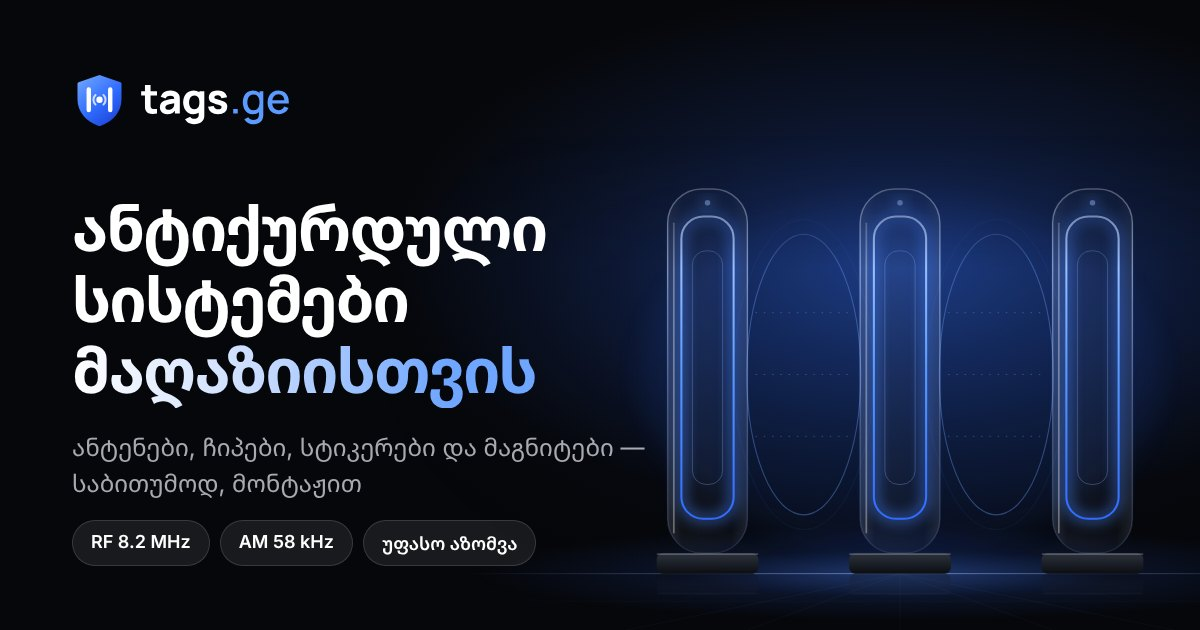
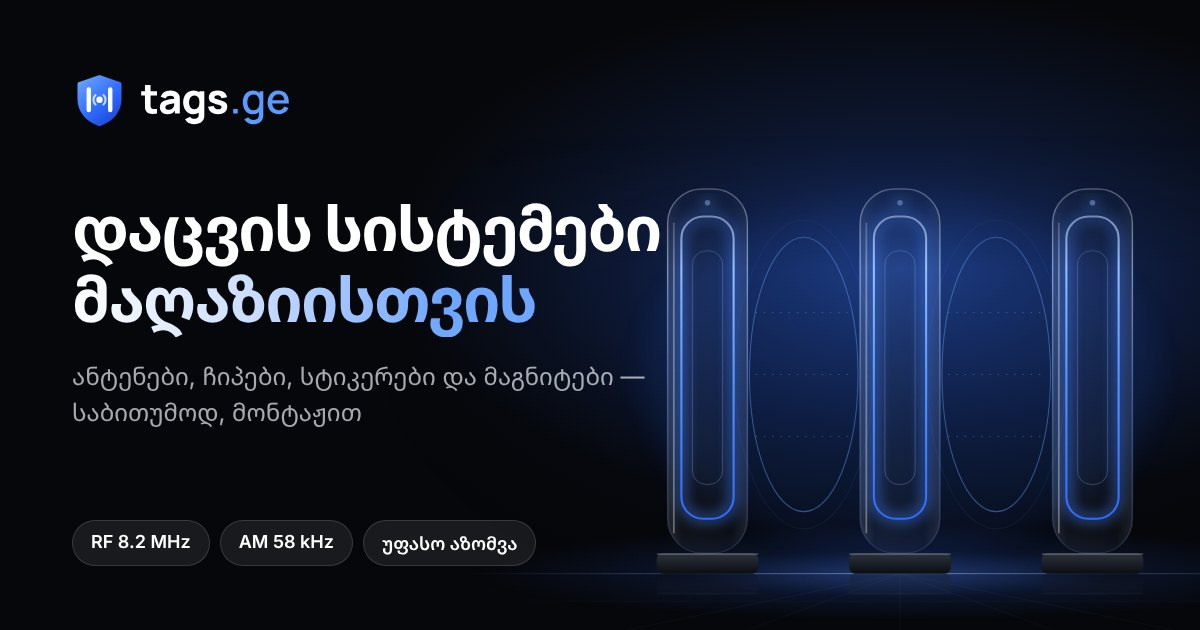
tags.ge: drop the word "ანტიქურდული" from everything visitors see
- Headline: "დაცვის სისტემები მაღაზიისთვის"; page title "მაღაზიის დაცვის
  სისტემები და ტანსაცმლის ჩიპები — tags.ge"
- Antenna category renamed "დამცავი ანტენები" (filter, heading, footer,
  form, JSON-LD)
- Meta and social descriptions, image alt text, SVG titles and the web
  manifest reworded; new social preview image
- The search terms containing the word stay only in the hidden keywords
  meta and JSON-LD knowsAbout list

Checked: no horizontal scroll 320-1920 px, html-validate clean, axe-core
no violations, menu/filter/selection/form flows unchanged.

Claude-Session: https://claude.ai/code/session_01BTpAvXkUq9DKvF3ta8y6eN

diff --git a/tagsge/index.html b/tagsge/index.html
@@ -3,8 +3,8 @@
 <head>
 <meta charset="utf-8">
 <meta name="viewport" content="width=device-width, initial-scale=1, viewport-fit=cover">
-<title>ანტიქურდული სისტემები და ტანსაცმლის ჩიპები — tags.ge</title>
-<meta name="description" content="ანტიქურდული სისტემები მაღაზიისთვის: RF და AM ანტენები, ტანსაცმლის ჩიპები, დამცავი სტიკერები და დეტაჩერი. საბითუმოდ, მონტაჟით მთელ საქართველოში.">
+<title>მაღაზიის დაცვის სისტემები და ტანსაცმლის ჩიპები — tags.ge</title>
+<meta name="description" content="მაღაზიის დაცვის სისტემები: RF და AM ანტენები, ტანსაცმლის ჩიპები, დამცავი სტიკერები და დეტაჩერი. საბითუმოდ, მონტაჟით მთელ საქართველოში.">
 <meta name="keywords" content="ანტიქურდული სისტემები, ტანსაცმლის ჩიპები, დამცავი სტიკერები, მაგნიტური ჩიპები, ჩიპის მოსახსნელი მაგნიტი, ანტიქურდული ანტენები, მაღაზიის სიგნალიზაცია, პლასტმასის ჩიპები, სენსორული სტიკერები, მოპარვის საწინააღმდეგო სისტემები, პროდუქციის დაცვა ქურდობისგან, დეტაჩერი, სტიკერის დეაქტივატორი, RF ანტენა, AM ანტენა, მრავალჯერადი ჩიპები, EAS სისტემა, tags.ge">
 <meta name="robots" content="index, follow, max-image-preview:large, max-snippet:-1">
 <link rel="canonical" href="https://tags.ge/">
@@ -19,14 +19,14 @@
 <meta property="og:site_name" content="tags.ge">
 <meta property="og:locale" content="ka_GE">
 <meta property="og:url" content="https://tags.ge/">
-<meta property="og:title" content="ანტიქურდული სისტემები მაღაზიისთვის — tags.ge">
+<meta property="og:title" content="დაცვის სისტემები მაღაზიისთვის — tags.ge">
 <meta property="og:description" content="ანტენები, ჩიპები, სტიკერები და მაგნიტები — საბითუმოდ, მონტაჟით მთელ საქართველოში.">
 <meta property="og:image" content="https://tags.ge/og-image.jpg">
 <meta property="og:image:width" content="1200">
 <meta property="og:image:height" content="630">
-<meta property="og:image:alt" content="tags.ge — ანტიქურდული სისტემები მაღაზიისთვის">
+<meta property="og:image:alt" content="tags.ge — დაცვის სისტემები მაღაზიისთვის">
 <meta name="twitter:card" content="summary_large_image">
-<meta name="twitter:title" content="ანტიქურდული სისტემები მაღაზიისთვის — tags.ge">
+<meta name="twitter:title" content="დაცვის სისტემები მაღაზიისთვის — tags.ge">
 <meta name="twitter:description" content="ანტენები, ჩიპები, სტიკერები და მაგნიტები — საბითუმოდ, მონტაჟით მთელ საქართველოში.">
 <meta name="twitter:image" content="https://tags.ge/og-image.jpg">
 
@@ -45,7 +45,7 @@
 <script>document.documentElement.classList.add('js')</script>
 
 <script type="application/ld+json">
-{"@context":"https://schema.org","@graph":[{"@type":["LocalBusiness","WholesaleStore"],"@id":"https://tags.ge/#business","name":"tags.ge","description":"ანტიქურდული სისტემები მაღაზიისთვის: ანტენები, ჩიპები, სტიკერები, მაგნიტები და დეაქტივატორები. საბითუმოდ, მონტაჟით მთელ საქართველოში.","url":"https://tags.ge/","logo":"https://tags.ge/icon-512.png","image":["https://tags.ge/og-image.jpg"],"telephone":"+995 5XX XX XX XX","email":"info@tags.ge","priceRange":"₾₾","currenciesAccepted":"GEL","address":{"@type":"PostalAddress","addressLocality":"თბილისი","addressRegion":"თბილისი","addressCountry":"GE"},"geo":{"@type":"GeoCoordinates","latitude":41.7151,"longitude":44.8271},"areaServed":{"@type":"Country","name":"საქართველო"},"openingHoursSpecification":[{"@type":"OpeningHoursSpecification","dayOfWeek":["Monday","Tuesday","Wednesday","Thursday","Friday"],"opens":"10:00","closes":"19:00"},{"@type":"OpeningHoursSpecification","dayOfWeek":"Saturday","opens":"11:00","closes":"16:00"}],"knowsAbout":["ანტიქურდული სისტემები","ტანსაცმლის ჩიპები","დამცავი სტიკერები","მაგნიტური ჩიპები","ჩიპის მოსახსნელი მაგნიტი","ანტიქურდული ანტენები","მაღაზიის სიგნალიზაცია","პლასტმასის ჩიპები","სენსორული სტიკერები","მოპარვის საწინააღმდეგო სისტემები","პროდუქციის დაცვა ქურდობისგან","დეტაჩერი","სტიკერის დეაქტივატორი","RF ანტენა","AM ანტენა","მრავალჯერადი ჩიპები"],"hasOfferCatalog":{"@type":"OfferCatalog","name":"ანტიქურდული სისტემები — კატალოგი","itemListElement":[{"@type":"OfferCatalog","name":"პლასტმასის ჩიპები","url":"https://tags.ge/#hard-tags","itemListElement":[{"@type":"Offer","availability":"https://schema.org/InStock","itemOffered":{"@id":"https://tags.ge/#p-round-tag"}},{"@type":"Offer","availability":"https://schema.org/InStock","itemOffered":{"@id":"https://tags.ge/#p-square-tag"}},{"@type":"Offer","availability":"https://schema.org/InStock","itemOffered":{"@id":"https://tags.ge/#p-long-tag"}},{"@type":"Offer","availability":"https://schema.org/InStock","itemOffered":{"@id":"https://tags.ge/#p-ink-tag"}},{"@type":"Offer","availability":"https://schema.org/InStock","itemOffered":{"@id":"https://tags.ge/#p-bottle-tag"}},{"@type":"Offer","availability":"https://schema.org/InStock","itemOffered":{"@id":"https://tags.ge/#p-cable-tag"}},{"@type":"Offer","availability":"https://schema.org/InStock","itemOffered":{"@id":"https://tags.ge/#p-optical-tag"}},{"@type":"Offer","availability":"https://schema.org/InStock","itemOffered":{"@id":"https://tags.ge/#p-pins"}}]},{"@type":"OfferCatalog","name":"დამცავი სტიკერები","url":"https://tags.ge/#soft-labels","itemListElement":[{"@type":"Offer","availability":"https://schema.org/InStock","itemOffered":{"@id":"https://tags.ge/#p-rf-label"}},{"@type":"Offer","availability":"https://schema.org/InStock","itemOffered":{"@id":"https://tags.ge/#p-am-label"}},{"@type":"Offer","availability":"https://schema.org/InStock","itemOffered":{"@id":"https://tags.ge/#p-barcode-label"}},{"@type":"Offer","availability":"https://schema.org/InStock","itemOffered":{"@id":"https://tags.ge/#p-deactivator"}}]},{"@type":"OfferCatalog","name":"ანტიქურდული ანტენები","url":"https://tags.ge/#antennas","itemListElement":[{"@type":"Offer","availability":"https://schema.org/InStock","itemOffered":{"@id":"https://tags.ge/#p-rf-antenna"}},{"@type":"Offer","availability":"https://schema.org/InStock","itemOffered":{"@id":"https://tags.ge/#p-am-antenna"}},{"@type":"Offer","availability":"https://schema.org/InStock","itemOffered":{"@id":"https://tags.ge/#p-hidden-antenna"}},{"@type":"Offer","availability":"https://schema.org/InStock","itemOffered":{"@id":"https://tags.ge/#p-counter"}}]},{"@type":"OfferCatalog","name":"ჩიპის მოსახსნელი მაგნიტები","url":"https://tags.ge/#detachers","itemListElement":[{"@type":"Offer","availability":"https://schema.org/InStock","itemOffered":{"@id":"https://tags.ge/#p-magnet"}},{"@type":"Offer","availability":"https://schema.org/InStock","itemOffered":{"@id":"https://tags.ge/#p-magnet-flush"}},{"@type":"Offer","availability":"https://schema.org/InStock","itemOffered":{"@id":"https://tags.ge/#p-magnet-mini"}},{"@type":"Offer","availability":"https://schema.org/InStock","itemOffered":{"@id":"https://tags.ge/#p-key"}}]}]}},{"@type":"WebSite","@id":"https://tags.ge/#website","url":"https://tags.ge/","name":"tags.ge","inLanguage":"ka","publisher":{"@id":"https://tags.ge/#business"}},{"@type":"WebPage","@id":"https://tags.ge/#webpage","url":"https://tags.ge/","inLanguage":"ka","name":"ანტიქურდული სისტემები და ტანსაცმლის ჩიპები — tags.ge","isPartOf":{"@id":"https://tags.ge/#website"},"about":{"@id":"https://tags.ge/#business"},"primaryImageOfPage":{"@type":"ImageObject","url":"https://tags.ge/og-image.jpg","width":1200,"height":630}},{"@type":"Product","@id":"https://tags.ge/#p-round-tag","name":"მრგვალი ჩიპი","description":"ყველაზე გავრცელებული ჩიპი ტანსაცმლისთვის.","image":"https://tags.ge/img/hard-tag-golf.svg","category":"პლასტმასის ჩიპები","url":"https://tags.ge/#p-round-tag","additionalProperty":[{"@type":"PropertyValue","name":"ზომა","value":"Ø 50 მმ"}]},{"@type":"Product","@id":"https://tags.ge/#p-square-tag","name":"კვადრატული ჩიპი","description":"ბრტყელი ჩიპი ჯინსისა და ქურთუკებისთვის.","image":"https://tags.ge/img/hard-tag-square.svg","category":"პლასტმასის ჩიპები","url":"https://tags.ge/#p-square-tag","additionalProperty":[{"@type":"PropertyValue","name":"ზომა","value":"45 × 45 მმ"}]},{"@type":"Product","@id":"https://tags.ge/#p-long-tag","name":"წაგრძელებული ჩიპი","description":"მსუბუქი ჩიპი თხელი ქსოვილისთვის.","image":"https://tags.ge/img/hard-tag-pencil.svg","category":"პლასტმასის ჩიპები","url":"https://tags.ge/#p-long-tag","additionalProperty":[{"@type":"PropertyValue","name":"ზომა","value":"70 × 15 მმ"}]},{"@type":"Product","@id":"https://tags.ge/#p-ink-tag","name":"საღებავიანი ჩიპი","description":"ძალით მოხსნისას საღებავი იღვრება და ნივთი ფუჭდება.","image":"https://tags.ge/img/hard-tag-ink.svg","category":"პლასტმასის ჩიპები","url":"https://tags.ge/#p-ink-tag","additionalProperty":[{"@type":"PropertyValue","name":"ზომა","value":"60 × 40 მმ"}]},{"@type":"Product","@id":"https://tags.ge/#p-bottle-tag","name":"ბოთლის ჩიპი","description":"ღვინისა და სასმელის ბოთლისთვის.","image":"https://tags.ge/img/hard-tag-bottle.svg","category":"პლასტმასის ჩიპები","url":"https://tags.ge/#p-bottle-tag","additionalProperty":[{"@type":"PropertyValue","name":"მოხსნა","value":"გასაღებით"}]},{"@type":"Product","@id":"https://tags.ge/#p-cable-tag","name":"ჩიპი თოკით","description":"ჩანთების, ფეხსაცმლისა და ელექტრონიკისთვის.","image":"https://tags.ge/img/hard-tag-lanyard.svg","category":"პლასტმასის ჩიპები","url":"https://tags.ge/#p-cable-tag","additionalProperty":[{"@type":"PropertyValue","name":"თოკი","value":"ფოლადის"}]},{"@type":"Product","@id":"https://tags.ge/#p-optical-tag","name":"სათვალის ჩიპი","description":"მზისა და ოპტიკური სათვალეებისთვის.","image":"https://tags.ge/img/hard-tag-optical.svg","category":"პლასტმასის ჩიპები","url":"https://tags.ge/#p-optical-tag","additionalProperty":[{"@type":"PropertyValue","name":"მაგრდება","value":"ღეროზე"}]},{"@type":"Product","@id":"https://tags.ge/#p-pins","name":"ქინძისთავები","description":"ფოლადის ქინძისთავები ჩიპებისთვის.","image":"https://tags.ge/img/hard-tag-pins.svg","category":"პლასტმასის ჩიპები","url":"https://tags.ge/#p-pins","additionalProperty":[{"@type":"PropertyValue","name":"სიგრძე","value":"16 / 19 მმ"},{"@type":"PropertyValue","name":"შეფუთვა","value":"1 000 ც."}]},{"@type":"Product","@id":"https://tags.ge/#p-rf-label","name":"RF სტიკერი","description":"უნივერსალური სტიკერი RF სისტემისთვის.","image":"https://tags.ge/img/label-rf.svg","category":"დამცავი სტიკერები","url":"https://tags.ge/#p-rf-label","additionalProperty":[{"@type":"PropertyValue","name":"ზომა","value":"40 × 40 მმ"},{"@type":"PropertyValue","name":"რულონში","value":"1 000 ც."}]},{"@type":"Product","@id":"https://tags.ge/#p-am-label","name":"AM სტიკერი","description":"სუპერმარკეტების სტანდარტი.","image":"https://tags.ge/img/label-am.svg","category":"დამცავი სტიკერები","url":"https://tags.ge/#p-am-label","additionalProperty":[{"@type":"PropertyValue","name":"ზომა","value":"45 × 10 მმ"},{"@type":"PropertyValue","name":"რულონში","value":"5 000 ც."}]},{"@type":"Product","@id":"https://tags.ge/#p-barcode-label","name":"შტრიხკოდიანი სტიკერი","description":"შტრიხკოდს ჰგავს, მყიდველი ვერ ამჩნევს.","image":"https://tags.ge/img/label-barcode.svg","category":"დამცავი სტიკერები","url":"https://tags.ge/#p-barcode-label","additionalProperty":[{"@type":"PropertyValue","name":"ზომა","value":"30 × 40 მმ"}]},{"@type":"Product","@id":"https://tags.ge/#p-deactivator","name":"სტიკერის დეაქტივატორი","description":"სალაროზე სტიკერს წამში თიშავს.","image":"https://tags.ge/img/deactivator.svg","category":"დამცავი სტიკერები","url":"https://tags.ge/#p-deactivator","additionalProperty":[{"@type":"PropertyValue","name":"მანძილი","value":"10 სმ-მდე"}]},{"@type":"Product","@id":"https://tags.ge/#p-rf-antenna","name":"RF ანტენა","description":"გამჭვირვალე აკრილის ანტენა ტანსაცმლის მაღაზიისთვის.","image":"https://tags.ge/img/antenna-rf.svg","category":"ანტიქურდული ანტენები","url":"https://tags.ge/#p-rf-antenna","additionalProperty":[{"@type":"PropertyValue","name":"შესასვლელი","value":"1.2 მ-მდე"},{"@type":"PropertyValue","name":"სიგნალი","value":"ხმა + შუქი"}]},{"@type":"Product","@id":"https://tags.ge/#p-am-antenna","name":"AM ანტენა","description":"ფართო შესასვლელისთვის, ლითონის შეფუთვაზეც მუშაობს.","image":"https://tags.ge/img/antenna-am.svg","category":"ანტიქურდული ანტენები","url":"https://tags.ge/#p-am-antenna","additionalProperty":[{"@type":"PropertyValue","name":"შესასვლელი","value":"2 მ-მდე"},{"@type":"PropertyValue","name":"სიგნალი","value":"ხმა + შუქი"}]},{"@type":"Product","@id":"https://tags.ge/#p-hidden-antenna","name":"ფარული ანტენა","description":"მონტაჟდება იატაკში ან ჭერში, შესასვლელი ღია რჩება.","image":"https://tags.ge/img/antenna-hidden.svg","category":"ანტიქურდული ანტენები","url":"https://tags.ge/#p-hidden-antenna","additionalProperty":[{"@type":"PropertyValue","name":"მონტაჟი","value":"იატაკი / ჭერი"}]},{"@type":"Product","@id":"https://tags.ge/#p-counter","name":"ვიზიტორების მთვლელი","description":"ითვლის, რამდენი მყიდველი შემოვიდა.","image":"https://tags.ge/img/antenna-counter.svg","category":"ანტიქურდული ანტენები","url":"https://tags.ge/#p-counter","additionalProperty":[{"@type":"PropertyValue","name":"მონტაჟი","value":"ანტენაზე"}]},{"@type":"Product","@id":"https://tags.ge/#p-magnet","name":"ჩიპის მოსახსნელი მაგნიტი","description":"სტანდარტული მაგნიტი მაგიდისთვის.","image":"https://tags.ge/img/detacher-golf.svg","category":"ჩიპის მოსახსნელი მაგნიტები","url":"https://tags.ge/#p-magnet","additionalProperty":[{"@type":"PropertyValue","name":"სიძლიერე","value":"12 000 GS"}]},{"@type":"Product","@id":"https://tags.ge/#p-magnet-flush","name":"ჩასამონტაჟებელი მაგნიტი","description":"ჩაიდგმება სალაროს მაგიდაში.","image":"https://tags.ge/img/detacher-flush.svg","category":"ჩიპის მოსახსნელი მაგნიტები","url":"https://tags.ge/#p-magnet-flush","additionalProperty":[{"@type":"PropertyValue","name":"სიძლიერე","value":"15 000 GS"}]},{"@type":"Product","@id":"https://tags.ge/#p-magnet-mini","name":"პატარა მაგნიტი","description":"კომპაქტური მაგნიტი პატარა სალაროსთვის.","image":"https://tags.ge/img/detacher-mini.svg","category":"ჩიპის მოსახსნელი მაგნიტები","url":"https://tags.ge/#p-magnet-mini","additionalProperty":[{"@type":"PropertyValue","name":"სიძლიერე","value":"10 000 GS"}]},{"@type":"Product","@id":"https://tags.ge/#p-key","name":"ჩიპის გასაღები","description":"ხსნის ბოთლის ჩიპს და ჩიპს თოკით.","image":"https://tags.ge/img/detacher-hook.svg","category":"ჩიპის მოსახსნელი მაგნიტები","url":"https://tags.ge/#p-key","additionalProperty":[]},{"@type":"FAQPage","@id":"https://tags.ge/#faq","inLanguage":"ka","mainEntity":[{"@type":"Question","name":"RF თუ AM — რომელი ავირჩიო?","acceptedAnswer":{"@type":"Answer","text":"ტანსაცმლისა და ფეხსაცმლის მაღაზიისთვის საკმარისია RF. სუპერმარკეტისთვის, ფართო შესასვლელისთვის ან ლითონის შეფუთვისთვის ჯობს AM."}},{"@type":"Question","name":"რა ღირს მაღაზიის სიგნალიზაცია?","acceptedAnswer":{"@type":"Answer","text":"ფასი დამოკიდებულია შესასვლელის სიგანესა და ჩიპების რაოდენობაზე. მოგვწერეთ და ფასს 24 საათში გეტყვით. აზომვა უფასოა."}},{"@type":"Question","name":"თქვენი ჩიპები ჩემს ანტენას მოერგება?","acceptedAnswer":{"@type":"Answer","text":"თუ სისტემა სტანდარტულია (RF 8.2 MHz ან AM 58 kHz), კი. გამოგვიგზავნეთ ანტენის ფოტო და გადავამოწმებთ."}},{"@type":"Question","name":"აზიანებს ჩიპი ტანსაცმელს?","acceptedAnswer":{"@type":"Answer","text":"არა. ქინძისთავი ქსოვილს არ ხევს, მაგნიტი კი ჩიპს წამში ხსნის."}},{"@type":"Question","name":"რისთვის მჭირდება დეაქტივატორი?","acceptedAnswer":{"@type":"Answer","text":"სალაროზე თიშავს სტიკერს, რომ გადახდილმა საქონელმა გასასვლელში სიგნალი არ ჩართოს. ჩიპებს დეაქტივატორი არ სჭირდება, ისინი მაგნიტით იხსნება."}},{"@type":"Question","name":"რეგიონებში მუშაობთ?","acceptedAnswer":{"@type":"Answer","text":"დიახ, ვაწვდით და ვამონტაჟებთ მთელ საქართველოში."}},{"@type":"Question","name":"პატარა მაღაზიასთანაც მუშაობთ?","acceptedAnswer":{"@type":"Answer","text":"დიახ. ვმუშაობთ როგორც ქსელებთან, ისე პატარა მაღაზიებთან. რაოდენობა შეთანხმებით."}}]}]}
+{"@context":"https://schema.org","@graph":[{"@type":["LocalBusiness","WholesaleStore"],"@id":"https://tags.ge/#business","name":"tags.ge","description":"მაღაზიის დაცვის სისტემები: ანტენები, ჩიპები, სტიკერები, მაგნიტები და დეაქტივატორები. საბითუმოდ, მონტაჟით მთელ საქართველოში.","url":"https://tags.ge/","logo":"https://tags.ge/icon-512.png","image":["https://tags.ge/og-image.jpg"],"telephone":"+995 5XX XX XX XX","email":"info@tags.ge","priceRange":"₾₾","currenciesAccepted":"GEL","address":{"@type":"PostalAddress","addressLocality":"თბილისი","addressRegion":"თბილისი","addressCountry":"GE"},"geo":{"@type":"GeoCoordinates","latitude":41.7151,"longitude":44.8271},"areaServed":{"@type":"Country","name":"საქართველო"},"openingHoursSpecification":[{"@type":"OpeningHoursSpecification","dayOfWeek":["Monday","Tuesday","Wednesday","Thursday","Friday"],"opens":"10:00","closes":"19:00"},{"@type":"OpeningHoursSpecification","dayOfWeek":"Saturday","opens":"11:00","closes":"16:00"}],"knowsAbout":["ანტიქურდული სისტემები","ტანსაცმლის ჩიპები","დამცავი სტიკერები","მაგნიტური ჩიპები","ჩიპის მოსახსნელი მაგნიტი","ანტიქურდული ანტენები","მაღაზიის სიგნალიზაცია","პლასტმასის ჩიპები","სენსორული სტიკერები","მოპარვის საწინააღმდეგო სისტემები","პროდუქციის დაცვა ქურდობისგან","დეტაჩერი","სტიკერის დეაქტივატორი","RF ანტენა","AM ანტენა","მრავალჯერადი ჩიპები"],"hasOfferCatalog":{"@type":"OfferCatalog","name":"tags.ge — კატალოგი","itemListElement":[{"@type":"OfferCatalog","name":"პლასტმასის ჩიპები","url":"https://tags.ge/#hard-tags","itemListElement":[{"@type":"Offer","availability":"https://schema.org/InStock","itemOffered":{"@id":"https://tags.ge/#p-round-tag"}},{"@type":"Offer","availability":"https://schema.org/InStock","itemOffered":{"@id":"https://tags.ge/#p-square-tag"}},{"@type":"Offer","availability":"https://schema.org/InStock","itemOffered":{"@id":"https://tags.ge/#p-long-tag"}},{"@type":"Offer","availability":"https://schema.org/InStock","itemOffered":{"@id":"https://tags.ge/#p-ink-tag"}},{"@type":"Offer","availability":"https://schema.org/InStock","itemOffered":{"@id":"https://tags.ge/#p-bottle-tag"}},{"@type":"Offer","availability":"https://schema.org/InStock","itemOffered":{"@id":"https://tags.ge/#p-cable-tag"}},{"@type":"Offer","availability":"https://schema.org/InStock","itemOffered":{"@id":"https://tags.ge/#p-optical-tag"}},{"@type":"Offer","availability":"https://schema.org/InStock","itemOffered":{"@id":"https://tags.ge/#p-pins"}}]},{"@type":"OfferCatalog","name":"დამცავი სტიკერები","url":"https://tags.ge/#soft-labels","itemListElement":[{"@type":"Offer","availability":"https://schema.org/InStock","itemOffered":{"@id":"https://tags.ge/#p-rf-label"}},{"@type":"Offer","availability":"https://schema.org/InStock","itemOffered":{"@id":"https://tags.ge/#p-am-label"}},{"@type":"Offer","availability":"https://schema.org/InStock","itemOffered":{"@id":"https://tags.ge/#p-barcode-label"}},{"@type":"Offer","availability":"https://schema.org/InStock","itemOffered":{"@id":"https://tags.ge/#p-deactivator"}}]},{"@type":"OfferCatalog","name":"დამცავი ანტენები","url":"https://tags.ge/#antennas","itemListElement":[{"@type":"Offer","availability":"https://schema.org/InStock","itemOffered":{"@id":"https://tags.ge/#p-rf-antenna"}},{"@type":"Offer","availability":"https://schema.org/InStock","itemOffered":{"@id":"https://tags.ge/#p-am-antenna"}},{"@type":"Offer","availability":"https://schema.org/InStock","itemOffered":{"@id":"https://tags.ge/#p-hidden-antenna"}},{"@type":"Offer","availability":"https://schema.org/InStock","itemOffered":{"@id":"https://tags.ge/#p-counter"}}]},{"@type":"OfferCatalog","name":"ჩიპის მოსახსნელი მაგნიტები","url":"https://tags.ge/#detachers","itemListElement":[{"@type":"Offer","availability":"https://schema.org/InStock","itemOffered":{"@id":"https://tags.ge/#p-magnet"}},{"@type":"Offer","availability":"https://schema.org/InStock","itemOffered":{"@id":"https://tags.ge/#p-magnet-flush"}},{"@type":"Offer","availability":"https://schema.org/InStock","itemOffered":{"@id":"https://tags.ge/#p-magnet-mini"}},{"@type":"Offer","availability":"https://schema.org/InStock","itemOffered":{"@id":"https://tags.ge/#p-key"}}]}]}},{"@type":"WebSite","@id":"https://tags.ge/#website","url":"https://tags.ge/","name":"tags.ge","inLanguage":"ka","publisher":{"@id":"https://tags.ge/#business"}},{"@type":"WebPage","@id":"https://tags.ge/#webpage","url":"https://tags.ge/","inLanguage":"ka","name":"მაღაზიის დაცვის სისტემები და ტანსაცმლის ჩიპები — tags.ge","isPartOf":{"@id":"https://tags.ge/#website"},"about":{"@id":"https://tags.ge/#business"},"primaryImageOfPage":{"@type":"ImageObject","url":"https://tags.ge/og-image.jpg","width":1200,"height":630}},{"@type":"Product","@id":"https://tags.ge/#p-round-tag","name":"მრგვალი ჩიპი","description":"ყველაზე გავრცელებული ჩიპი ტანსაცმლისთვის.","image":"https://tags.ge/img/hard-tag-golf.svg","category":"პლასტმასის ჩიპები","url":"https://tags.ge/#p-round-tag","additionalProperty":[{"@type":"PropertyValue","name":"ზომა","value":"Ø 50 მმ"}]},{"@type":"Product","@id":"https://tags.ge/#p-square-tag","name":"კვადრატული ჩიპი","description":"ბრტყელი ჩიპი ჯინსისა და ქურთუკებისთვის.","image":"https://tags.ge/img/hard-tag-square.svg","category":"პლასტმასის ჩიპები","url":"https://tags.ge/#p-square-tag","additionalProperty":[{"@type":"PropertyValue","name":"ზომა","value":"45 × 45 მმ"}]},{"@type":"Product","@id":"https://tags.ge/#p-long-tag","name":"წაგრძელებული ჩიპი","description":"მსუბუქი ჩიპი თხელი ქსოვილისთვის.","image":"https://tags.ge/img/hard-tag-pencil.svg","category":"პლასტმასის ჩიპები","url":"https://tags.ge/#p-long-tag","additionalProperty":[{"@type":"PropertyValue","name":"ზომა","value":"70 × 15 მმ"}]},{"@type":"Product","@id":"https://tags.ge/#p-ink-tag","name":"საღებავიანი ჩიპი","description":"ძალით მოხსნისას საღებავი იღვრება და ნივთი ფუჭდება.","image":"https://tags.ge/img/hard-tag-ink.svg","category":"პლასტმასის ჩიპები","url":"https://tags.ge/#p-ink-tag","additionalProperty":[{"@type":"PropertyValue","name":"ზომა","value":"60 × 40 მმ"}]},{"@type":"Product","@id":"https://tags.ge/#p-bottle-tag","name":"ბოთლის ჩიპი","description":"ღვინისა და სასმელის ბოთლისთვის.","image":"https://tags.ge/img/hard-tag-bottle.svg","category":"პლასტმასის ჩიპები","url":"https://tags.ge/#p-bottle-tag","additionalProperty":[{"@type":"PropertyValue","name":"მოხსნა","value":"გასაღებით"}]},{"@type":"Product","@id":"https://tags.ge/#p-cable-tag","name":"ჩიპი თოკით","description":"ჩანთების, ფეხსაცმლისა და ელექტრონიკისთვის.","image":"https://tags.ge/img/hard-tag-lanyard.svg","category":"პლასტმასის ჩიპები","url":"https://tags.ge/#p-cable-tag","additionalProperty":[{"@type":"PropertyValue","name":"თოკი","value":"ფოლადის"}]},{"@type":"Product","@id":"https://tags.ge/#p-optical-tag","name":"სათვალის ჩიპი","description":"მზისა და ოპტიკური სათვალეებისთვის.","image":"https://tags.ge/img/hard-tag-optical.svg","category":"პლასტმასის ჩიპები","url":"https://tags.ge/#p-optical-tag","additionalProperty":[{"@type":"PropertyValue","name":"მაგრდება","value":"ღეროზე"}]},{"@type":"Product","@id":"https://tags.ge/#p-pins","name":"ქინძისთავები","description":"ფოლადის ქინძისთავები ჩიპებისთვის.","image":"https://tags.ge/img/hard-tag-pins.svg","category":"პლასტმასის ჩიპები","url":"https://tags.ge/#p-pins","additionalProperty":[{"@type":"PropertyValue","name":"სიგრძე","value":"16 / 19 მმ"},{"@type":"PropertyValue","name":"შეფუთვა","value":"1 000 ც."}]},{"@type":"Product","@id":"https://tags.ge/#p-rf-label","name":"RF სტიკერი","description":"უნივერსალური სტიკერი RF სისტემისთვის.","image":"https://tags.ge/img/label-rf.svg","category":"დამცავი სტიკერები","url":"https://tags.ge/#p-rf-label","additionalProperty":[{"@type":"PropertyValue","name":"ზომა","value":"40 × 40 მმ"},{"@type":"PropertyValue","name":"რულონში","value":"1 000 ც."}]},{"@type":"Product","@id":"https://tags.ge/#p-am-label","name":"AM სტიკერი","description":"სუპერმარკეტების სტანდარტი.","image":"https://tags.ge/img/label-am.svg","category":"დამცავი სტიკერები","url":"https://tags.ge/#p-am-label","additionalProperty":[{"@type":"PropertyValue","name":"ზომა","value":"45 × 10 მმ"},{"@type":"PropertyValue","name":"რულონში","value":"5 000 ც."}]},{"@type":"Product","@id":"https://tags.ge/#p-barcode-label","name":"შტრიხკოდიანი სტიკერი","description":"შტრიხკოდს ჰგავს, მყიდველი ვერ ამჩნევს.","image":"https://tags.ge/img/label-barcode.svg","category":"დამცავი სტიკერები","url":"https://tags.ge/#p-barcode-label","additionalProperty":[{"@type":"PropertyValue","name":"ზომა","value":"30 × 40 მმ"}]},{"@type":"Product","@id":"https://tags.ge/#p-deactivator","name":"სტიკერის დეაქტივატორი","description":"სალაროზე სტიკერს წამში თიშავს.","image":"https://tags.ge/img/deactivator.svg","category":"დამცავი სტიკერები","url":"https://tags.ge/#p-deactivator","additionalProperty":[{"@type":"PropertyValue","name":"მანძილი","value":"10 სმ-მდე"}]},{"@type":"Product","@id":"https://tags.ge/#p-rf-antenna","name":"RF ანტენა","description":"გამჭვირვალე აკრილის ანტენა ტანსაცმლის მაღაზიისთვის.","image":"https://tags.ge/img/antenna-rf.svg","category":"დამცავი ანტენები","url":"https://tags.ge/#p-rf-antenna","additionalProperty":[{"@type":"PropertyValue","name":"შესასვლელი","value":"1.2 მ-მდე"},{"@type":"PropertyValue","name":"სიგნალი","value":"ხმა + შუქი"}]},{"@type":"Product","@id":"https://tags.ge/#p-am-antenna","name":"AM ანტენა","description":"ფართო შესასვლელისთვის, ლითონის შეფუთვაზეც მუშაობს.","image":"https://tags.ge/img/antenna-am.svg","category":"დამცავი ანტენები","url":"https://tags.ge/#p-am-antenna","additionalProperty":[{"@type":"PropertyValue","name":"შესასვლელი","value":"2 მ-მდე"},{"@type":"PropertyValue","name":"სიგნალი","value":"ხმა + შუქი"}]},{"@type":"Product","@id":"https://tags.ge/#p-hidden-antenna","name":"ფარული ანტენა","description":"მონტაჟდება იატაკში ან ჭერში, შესასვლელი ღია რჩება.","image":"https://tags.ge/img/antenna-hidden.svg","category":"დამცავი ანტენები","url":"https://tags.ge/#p-hidden-antenna","additionalProperty":[{"@type":"PropertyValue","name":"მონტაჟი","value":"იატაკი / ჭერი"}]},{"@type":"Product","@id":"https://tags.ge/#p-counter","name":"ვიზიტორების მთვლელი","description":"ითვლის, რამდენი მყიდველი შემოვიდა.","image":"https://tags.ge/img/antenna-counter.svg","category":"დამცავი ანტენები","url":"https://tags.ge/#p-counter","additionalProperty":[{"@type":"PropertyValue","name":"მონტაჟი","value":"ანტენაზე"}]},{"@type":"Product","@id":"https://tags.ge/#p-magnet","name":"ჩიპის მოსახსნელი მაგნიტი","description":"სტანდარტული მაგნიტი მაგიდისთვის.","image":"https://tags.ge/img/detacher-golf.svg","category":"ჩიპის მოსახსნელი მაგნიტები","url":"https://tags.ge/#p-magnet","additionalProperty":[{"@type":"PropertyValue","name":"სიძლიერე","value":"12 000 GS"}]},{"@type":"Product","@id":"https://tags.ge/#p-magnet-flush","name":"ჩასამონტაჟებელი მაგნიტი","description":"ჩაიდგმება სალაროს მაგიდაში.","image":"https://tags.ge/img/detacher-flush.svg","category":"ჩიპის მოსახსნელი მაგნიტები","url":"https://tags.ge/#p-magnet-flush","additionalProperty":[{"@type":"PropertyValue","name":"სიძლიერე","value":"15 000 GS"}]},{"@type":"Product","@id":"https://tags.ge/#p-magnet-mini","name":"პატარა მაგნიტი","description":"კომპაქტური მაგნიტი პატარა სალაროსთვის.","image":"https://tags.ge/img/detacher-mini.svg","category":"ჩიპის მოსახსნელი მაგნიტები","url":"https://tags.ge/#p-magnet-mini","additionalProperty":[{"@type":"PropertyValue","name":"სიძლიერე","value":"10 000 GS"}]},{"@type":"Product","@id":"https://tags.ge/#p-key","name":"ჩიპის გასაღები","description":"ხსნის ბოთლის ჩიპს და ჩიპს თოკით.","image":"https://tags.ge/img/detacher-hook.svg","category":"ჩიპის მოსახსნელი მაგნიტები","url":"https://tags.ge/#p-key","additionalProperty":[]},{"@type":"FAQPage","@id":"https://tags.ge/#faq","inLanguage":"ka","mainEntity":[{"@type":"Question","name":"RF თუ AM — რომელი ავირჩიო?","acceptedAnswer":{"@type":"Answer","text":"ტანსაცმლისა და ფეხსაცმლის მაღაზიისთვის საკმარისია RF. სუპერმარკეტისთვის, ფართო შესასვლელისთვის ან ლითონის შეფუთვისთვის ჯობს AM."}},{"@type":"Question","name":"რა ღირს მაღაზიის სიგნალიზაცია?","acceptedAnswer":{"@type":"Answer","text":"ფასი დამოკიდებულია შესასვლელის სიგანესა და ჩიპების რაოდენობაზე. მოგვწერეთ და ფასს 24 საათში გეტყვით. აზომვა უფასოა."}},{"@type":"Question","name":"თქვენი ჩიპები ჩემს ანტენას მოერგება?","acceptedAnswer":{"@type":"Answer","text":"თუ სისტემა სტანდარტულია (RF 8.2 MHz ან AM 58 kHz), კი. გამოგვიგზავნეთ ანტენის ფოტო და გადავამოწმებთ."}},{"@type":"Question","name":"აზიანებს ჩიპი ტანსაცმელს?","acceptedAnswer":{"@type":"Answer","text":"არა. ქინძისთავი ქსოვილს არ ხევს, მაგნიტი კი ჩიპს წამში ხსნის."}},{"@type":"Question","name":"რისთვის მჭირდება დეაქტივატორი?","acceptedAnswer":{"@type":"Answer","text":"სალაროზე თიშავს სტიკერს, რომ გადახდილმა საქონელმა გასასვლელში სიგნალი არ ჩართოს. ჩიპებს დეაქტივატორი არ სჭირდება, ისინი მაგნიტით იხსნება."}},{"@type":"Question","name":"რეგიონებში მუშაობთ?","acceptedAnswer":{"@type":"Answer","text":"დიახ, ვაწვდით და ვამონტაჟებთ მთელ საქართველოში."}},{"@type":"Question","name":"პატარა მაღაზიასთანაც მუშაობთ?","acceptedAnswer":{"@type":"Answer","text":"დიახ. ვმუშაობთ როგორც ქსელებთან, ისე პატარა მაღაზიებთან. რაოდენობა შეთანხმებით."}}]}]}
 </script>
 
 <style>
@@ -540,7 +540,7 @@ a.contact-card:hover{border-color:var(--accent);background:#fff}
 <!-- ======================= HERO ======================= -->
 <section class="hero" id="top" aria-labelledby="hero-title">
   <div class="container hero-inner">
-    <h1 id="hero-title" data-reveal>ანტიქურდული სისტემები <span class="grad-text">მაღაზიისთვის</span></h1>
+    <h1 id="hero-title" data-reveal>დაცვის სისტემები <span class="grad-text">მაღაზიისთვის</span></h1>
     <p class="hero-sub" data-reveal style="--d:1">ანტენები, ჩიპები, სტიკერები და მაგნიტები — საბითუმო ფასად, მონტაჟით მთელ საქართველოში.</p>
     <div class="hero-cta" data-reveal style="--d:2">
       <a class="btn btn-primary" href="#contact">ფასის მოთხოვნა <svg class="arrow" viewBox="0 0 24 24" fill="none" stroke="currentColor" stroke-width="2" stroke-linecap="round" stroke-linejoin="round" aria-hidden="true"><path d="M5 12h14M13 6l6 6-6 6"/></svg></a>
@@ -553,7 +553,7 @@ a.contact-card:hover{border-color:var(--accent);background:#fff}
     </ul>
   </div>
   <figure class="hero-visual">
-    <img src="img/eas-gates-hero.svg" width="1600" height="780" alt="ანტიქურდული ანტენები მაღაზიის შესასვლელთან" fetchpriority="high" decoding="async">
+    <img src="img/eas-gates-hero.svg" width="1600" height="780" alt="დამცავი ანტენები მაღაზიის შესასვლელთან" fetchpriority="high" decoding="async">
   </figure>
   <div class="container">
     <ul class="hero-stats">
@@ -626,7 +626,7 @@ a.contact-card:hover{border-color:var(--accent);background:#fff}
         <button type="button" data-filter="all" aria-pressed="true">ყველა</button>
         <button type="button" data-filter="hard-tags" aria-pressed="false">პლასტმასის ჩიპები</button>
         <button type="button" data-filter="soft-labels" aria-pressed="false">დამცავი სტიკერები</button>
-        <button type="button" data-filter="antennas" aria-pressed="false">ანტიქურდული ანტენები</button>
+        <button type="button" data-filter="antennas" aria-pressed="false">დამცავი ანტენები</button>
         <button type="button" data-filter="detachers" aria-pressed="false">ჩიპის მოსახსნელი მაგნიტები</button>
       </div>
       <div class="seg seg-tech" role="group" aria-label="სისტემა">
@@ -853,7 +853,7 @@ a.contact-card:hover{border-color:var(--accent);background:#fff}
       <header class="cat-head" data-reveal>
         <div>
           <p class="cat-kicker"><b>03</b> <span><span data-count>4</span> პროდუქტი</span></p>
-          <h3 id="antennas-title">ანტიქურდული ანტენები</h3>
+          <h3 id="antennas-title">დამცავი ანტენები</h3>
         </div>
         <div>
           <p class="cat-desc">მაღაზიის სიგნალიზაცია შესასვლელისთვის: RF ანტენა ბუტიკისთვის, AM ანტენა სუპერმარკეტისთვის.</p>
@@ -872,7 +872,7 @@ a.contact-card:hover{border-color:var(--accent);background:#fff}
             <ul class="specs"><li><span>შესასვლელი</span><b>1.2 მ-მდე</b></li><li><span>სიგნალი</span><b>ხმა + შუქი</b></li></ul>
           </div>
           <div class="product-actions">
-            <button type="button" class="btn btn-dark btn-sm js-quote" data-product="RF ანტენა" data-interest="ანტიქურდული ანტენები">ფასის მოთხოვნა <svg class="arrow" viewBox="0 0 24 24" fill="none" stroke="currentColor" stroke-width="2" stroke-linecap="round" stroke-linejoin="round" aria-hidden="true"><path d="M5 12h14M13 6l6 6-6 6"/></svg></button>
+            <button type="button" class="btn btn-dark btn-sm js-quote" data-product="RF ანტენა" data-interest="დამცავი ანტენები">ფასის მოთხოვნა <svg class="arrow" viewBox="0 0 24 24" fill="none" stroke="currentColor" stroke-width="2" stroke-linecap="round" stroke-linejoin="round" aria-hidden="true"><path d="M5 12h14M13 6l6 6-6 6"/></svg></button>
             <button type="button" class="icon-btn js-add" data-product="RF ანტენა" aria-pressed="false" aria-label="მოთხოვნის სიაში დამატება: RF ანტენა"><svg class="i-plus" viewBox="0 0 24 24" fill="none" stroke="currentColor" stroke-width="2" stroke-linecap="round" stroke-linejoin="round" aria-hidden="true"><path d="M12 5v14M5 12h14"/></svg><svg class="i-check" viewBox="0 0 24 24" fill="none" stroke="currentColor" stroke-width="2.2" stroke-linecap="round" stroke-linejoin="round" aria-hidden="true"><path d="M5 12.5l4.5 4.5L19 7.5"/></svg></button>
           </div>
         </article>
@@ -887,13 +887,13 @@ a.contact-card:hover{border-color:var(--accent);background:#fff}
             <ul class="specs"><li><span>შესასვლელი</span><b>2 მ-მდე</b></li><li><span>სიგნალი</span><b>ხმა + შუქი</b></li></ul>
           </div>
           <div class="product-actions">
-            <button type="button" class="btn btn-dark btn-sm js-quote" data-product="AM ანტენა" data-interest="ანტიქურდული ანტენები">ფასის მოთხოვნა <svg class="arrow" viewBox="0 0 24 24" fill="none" stroke="currentColor" stroke-width="2" stroke-linecap="round" stroke-linejoin="round" aria-hidden="true"><path d="M5 12h14M13 6l6 6-6 6"/></svg></button>
+            <button type="button" class="btn btn-dark btn-sm js-quote" data-product="AM ანტენა" data-interest="დამცავი ანტენები">ფასის მოთხოვნა <svg class="arrow" viewBox="0 0 24 24" fill="none" stroke="currentColor" stroke-width="2" stroke-linecap="round" stroke-linejoin="round" aria-hidden="true"><path d="M5 12h14M13 6l6 6-6 6"/></svg></button>
             <button type="button" class="icon-btn js-add" data-product="AM ანტენა" aria-pressed="false" aria-label="მოთხოვნის სიაში დამატება: AM ანტენა"><svg class="i-plus" viewBox="0 0 24 24" fill="none" stroke="currentColor" stroke-width="2" stroke-linecap="round" stroke-linejoin="round" aria-hidden="true"><path d="M12 5v14M5 12h14"/></svg><svg class="i-check" viewBox="0 0 24 24" fill="none" stroke="currentColor" stroke-width="2.2" stroke-linecap="round" stroke-linejoin="round" aria-hidden="true"><path d="M5 12.5l4.5 4.5L19 7.5"/></svg></button>
           </div>
         </article>
         <article class="product" id="p-hidden-antenna" data-tech="rf am">
           <div class="product-media">
-            <img src="img/antenna-hidden.svg" width="400" height="300" alt="ფარული ანტიქურდული ანტენა" loading="lazy" decoding="async">
+            <img src="img/antenna-hidden.svg" width="400" height="300" alt="ფარული დამცავი ანტენა" loading="lazy" decoding="async">
             <ul class="badges"><li class="badge badge-rf">RF</li><li class="badge badge-am">AM</li></ul>
           </div>
           <div class="product-body">
@@ -902,7 +902,7 @@ a.contact-card:hover{border-color:var(--accent);background:#fff}
             <ul class="specs"><li><span>მონტაჟი</span><b>იატაკი / ჭერი</b></li></ul>
           </div>
           <div class="product-actions">
-            <button type="button" class="btn btn-dark btn-sm js-quote" data-product="ფარული ანტენა" data-interest="ანტიქურდული ანტენები">ფასის მოთხოვნა <svg class="arrow" viewBox="0 0 24 24" fill="none" stroke="currentColor" stroke-width="2" stroke-linecap="round" stroke-linejoin="round" aria-hidden="true"><path d="M5 12h14M13 6l6 6-6 6"/></svg></button>
+            <button type="button" class="btn btn-dark btn-sm js-quote" data-product="ფარული ანტენა" data-interest="დამცავი ანტენები">ფასის მოთხოვნა <svg class="arrow" viewBox="0 0 24 24" fill="none" stroke="currentColor" stroke-width="2" stroke-linecap="round" stroke-linejoin="round" aria-hidden="true"><path d="M5 12h14M13 6l6 6-6 6"/></svg></button>
             <button type="button" class="icon-btn js-add" data-product="ფარული ანტენა" aria-pressed="false" aria-label="მოთხოვნის სიაში დამატება: ფარული ანტენა"><svg class="i-plus" viewBox="0 0 24 24" fill="none" stroke="currentColor" stroke-width="2" stroke-linecap="round" stroke-linejoin="round" aria-hidden="true"><path d="M12 5v14M5 12h14"/></svg><svg class="i-check" viewBox="0 0 24 24" fill="none" stroke="currentColor" stroke-width="2.2" stroke-linecap="round" stroke-linejoin="round" aria-hidden="true"><path d="M5 12.5l4.5 4.5L19 7.5"/></svg></button>
           </div>
         </article>
@@ -917,7 +917,7 @@ a.contact-card:hover{border-color:var(--accent);background:#fff}
             <ul class="specs"><li><span>მონტაჟი</span><b>ანტენაზე</b></li></ul>
           </div>
           <div class="product-actions">
-            <button type="button" class="btn btn-dark btn-sm js-quote" data-product="ვიზიტორების მთვლელი" data-interest="ანტიქურდული ანტენები">ფასის მოთხოვნა <svg class="arrow" viewBox="0 0 24 24" fill="none" stroke="currentColor" stroke-width="2" stroke-linecap="round" stroke-linejoin="round" aria-hidden="true"><path d="M5 12h14M13 6l6 6-6 6"/></svg></button>
+            <button type="button" class="btn btn-dark btn-sm js-quote" data-product="ვიზიტორების მთვლელი" data-interest="დამცავი ანტენები">ფასის მოთხოვნა <svg class="arrow" viewBox="0 0 24 24" fill="none" stroke="currentColor" stroke-width="2" stroke-linecap="round" stroke-linejoin="round" aria-hidden="true"><path d="M5 12h14M13 6l6 6-6 6"/></svg></button>
             <button type="button" class="icon-btn js-add" data-product="ვიზიტორების მთვლელი" aria-pressed="false" aria-label="მოთხოვნის სიაში დამატება: ვიზიტორების მთვლელი"><svg class="i-plus" viewBox="0 0 24 24" fill="none" stroke="currentColor" stroke-width="2" stroke-linecap="round" stroke-linejoin="round" aria-hidden="true"><path d="M12 5v14M5 12h14"/></svg><svg class="i-check" viewBox="0 0 24 24" fill="none" stroke="currentColor" stroke-width="2.2" stroke-linecap="round" stroke-linejoin="round" aria-hidden="true"><path d="M5 12.5l4.5 4.5L19 7.5"/></svg></button>
           </div>
         </article>
@@ -1205,7 +1205,7 @@ a.contact-card:hover{border-color:var(--accent);background:#fff}
               <option value="სრული სისტემა მონტაჟით">სრული სისტემა მონტაჟით</option>
               <option value="პლასტმასის ჩიპები">პლასტმასის ჩიპები</option>
               <option value="დამცავი სტიკერები">დამცავი სტიკერები</option>
-              <option value="ანტიქურდული ანტენები">ანტიქურდული ანტენები</option>
+              <option value="დამცავი ანტენები">დამცავი ანტენები</option>
               <option value="ჩიპის მოსახსნელი მაგნიტები">ჩიპის მოსახსნელი მაგნიტები</option>
               <option value="სერვისი / შეკეთება">სერვისი / შეკეთება</option>
             </select>
@@ -1251,7 +1251,7 @@ a.contact-card:hover{border-color:var(--accent);background:#fff}
         <ul>
           <li><a href="#hard-tags" data-cat-link="hard-tags">პლასტმასის ჩიპები</a></li>
           <li><a href="#soft-labels" data-cat-link="soft-labels">დამცავი სტიკერები</a></li>
-          <li><a href="#antennas" data-cat-link="antennas">ანტიქურდული ანტენები</a></li>
+          <li><a href="#antennas" data-cat-link="antennas">დამცავი ანტენები</a></li>
           <li><a href="#detachers" data-cat-link="detachers">ჩიპის მოსახსნელი მაგნიტები</a></li>
         </ul>
       </nav>

diff --git a/tagsge/README.md b/tagsge/README.md
@@ -56,7 +56,8 @@ The form (`#quote-form`) collects name, shop or company, phone, email, area of i
 ## SEO
 
 - One `<h1>`, semantic sections (`header`, `nav`, `main`, `section`, `article`, `aside`, `footer`), Georgian `lang="ka"`, canonical `https://tags.ge/`.
-- The copy is short and plain, in the words Georgian shops use for this equipment (ჩიპი, მაგნიტი, სტიკერი, დეაქტივატორი, ანტენა), with no literal translations of English trade names. Each of the 16 target search terms still appears verbatim on the page at least once, and all of them are in the keywords meta, without forced repetition.
+- The copy is short and plain, in the words Georgian shops use for this equipment (ჩიპი, მაგნიტი, სტიკერი, დეაქტივატორი, ანტენა), with no literal translations of English trade names. The general term is „დაცვის სისტემები“ and the antenna category is „დამცავი ანტენები“.
+- The word „ანტიქურდული“ is not used anywhere a visitor can see it. The search terms that contain it are kept only in the hidden keywords meta and the JSON-LD `knowsAbout` list. The other target terms appear verbatim on the page at least once.
 - JSON-LD `@graph`: `LocalBusiness` + `WholesaleStore` (with `OfferCatalog` per category), `WebSite`, `WebPage`, 20 `Product` items and a `FAQPage` whose answers match the visible FAQ word for word.
 - Open Graph and Twitter cards, `sitemap.xml`, `robots.txt`, manifest, favicons.
 - To show Google product rich results (price in search results), add `"offers": { "@type": "Offer", "price": "…", "priceCurrency": "GEL", "availability": "https://schema.org/InStock" }` to each `Product`. Google requires a price for those.
